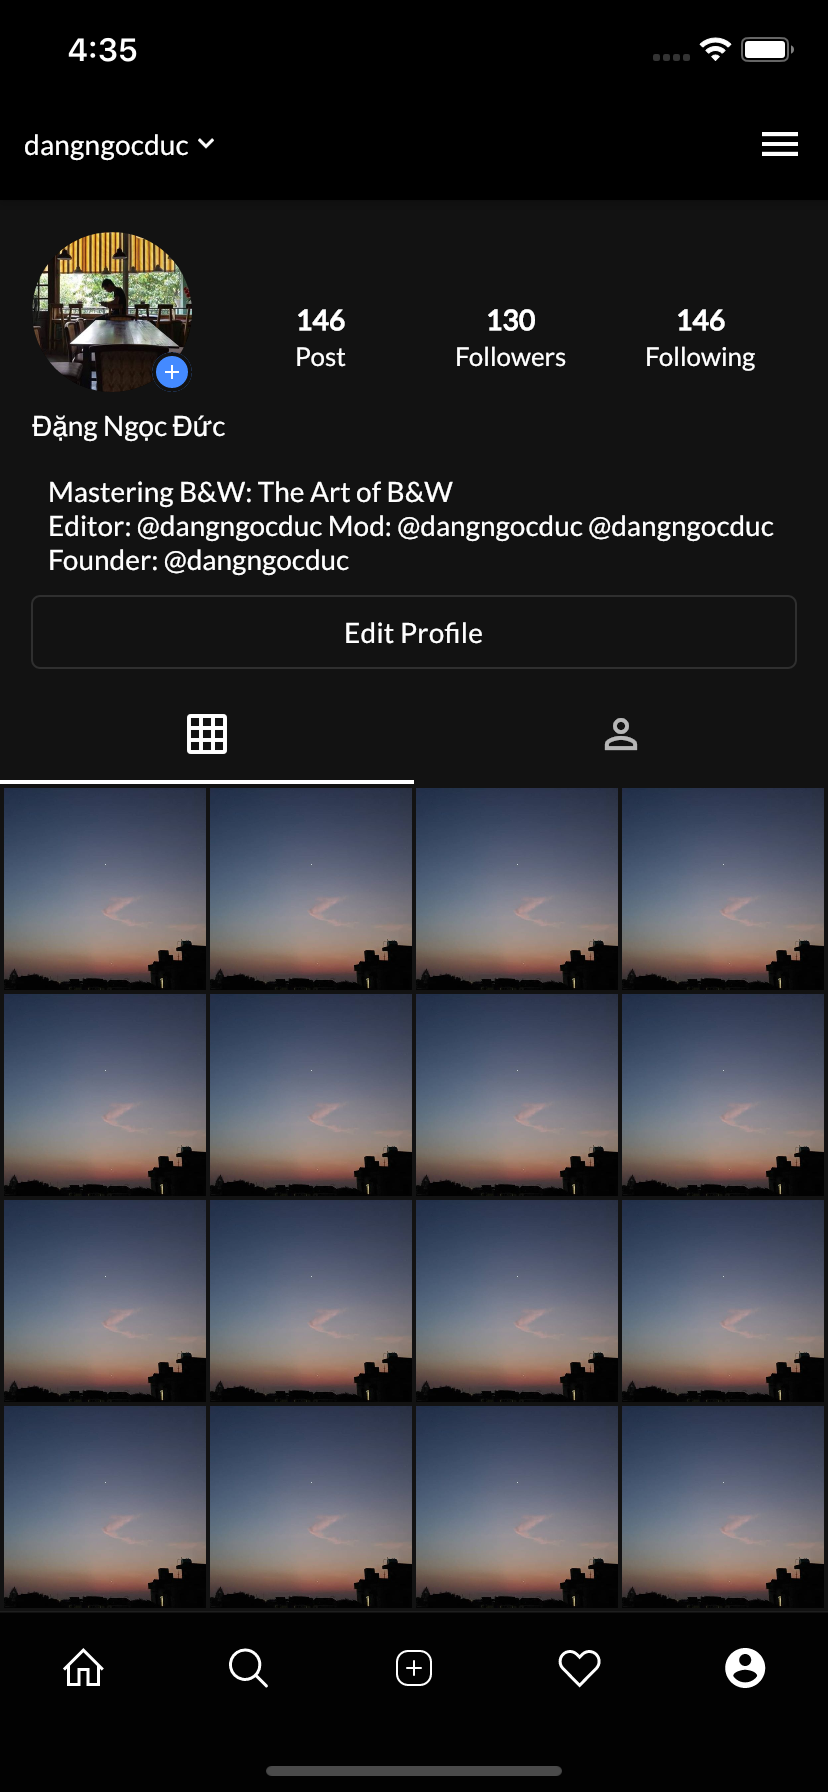
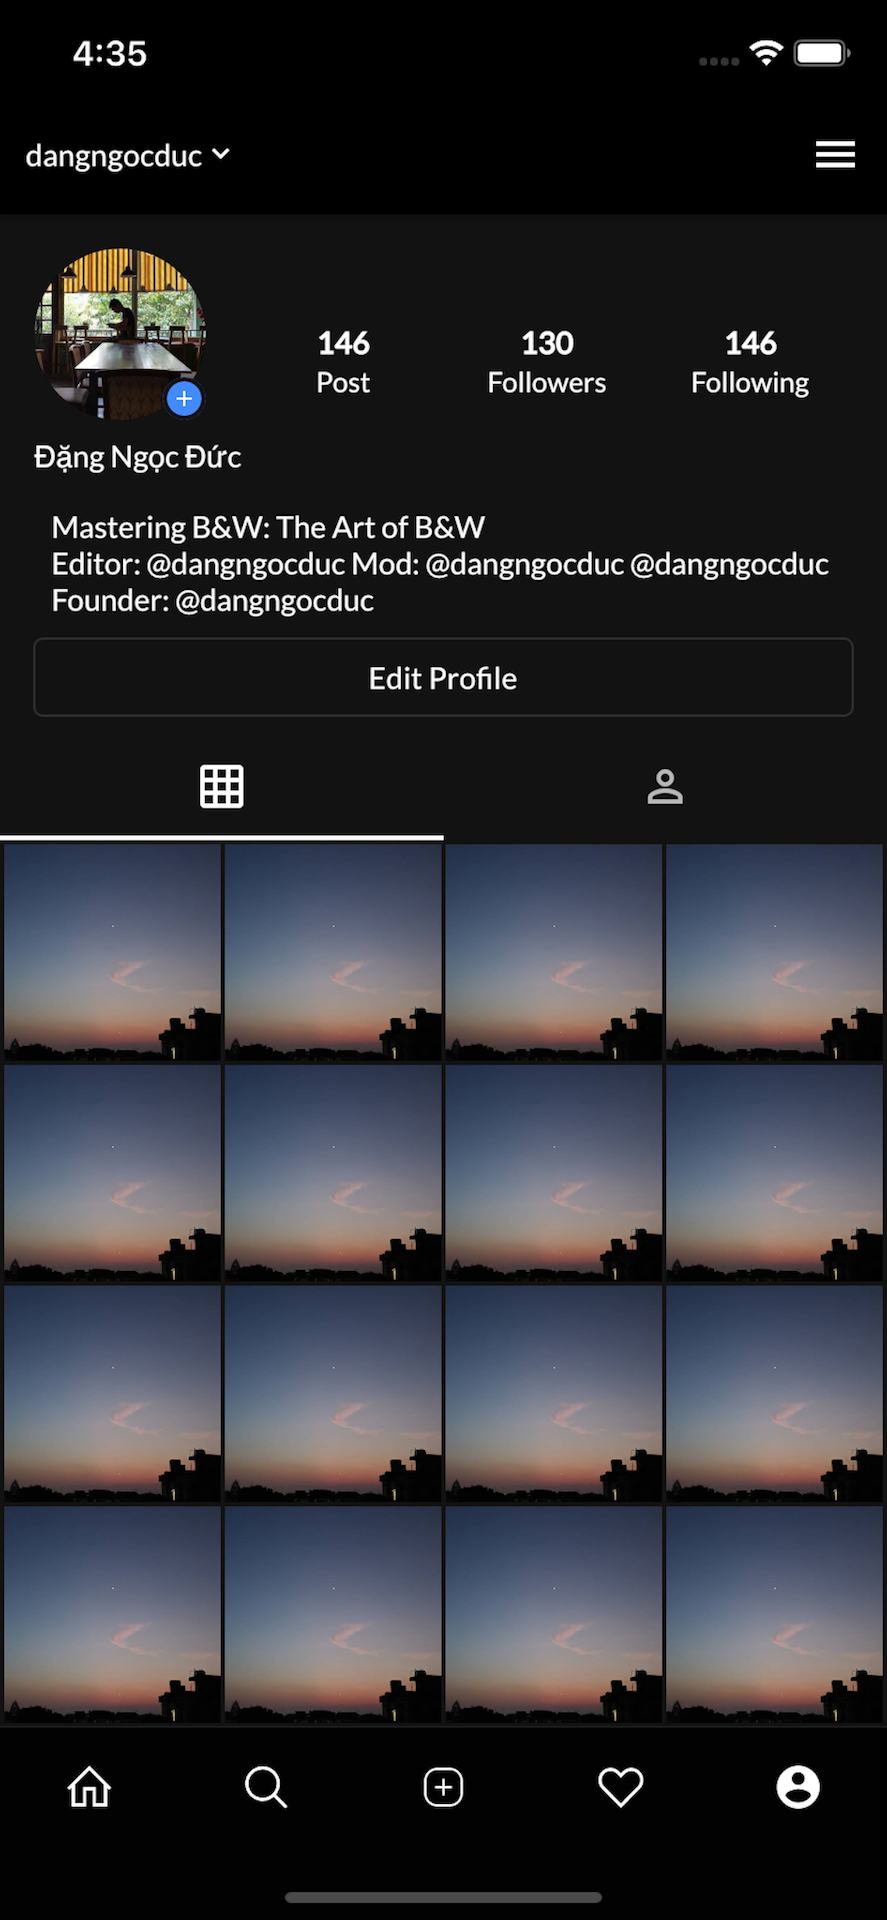
[DEV]

diff --git a/lib/features/search/search_pages.dart b/lib/features/search/search_pages.dart
@@ -1,3 +1,4 @@
+import 'package:flutter/foundation.dart';
 import 'package:flutter/material.dart';
 import 'package:flutter_svg/flutter_svg.dart';
 import 'package:instagramflutter/data/bloc/local_media_bloc.dart';
@@ -51,7 +52,11 @@ class _SearchPagesState extends State<SearchPages> {
                 separatorBuilder: (context, index) => SizedBox(width: 16,),
                 scrollDirection: Axis.horizontal,
                 itemBuilder: (context, index) => ChipWidget(
-                  SvgPicture.asset(
+                  kIsWeb ? Image.network(
+                    categories[index].item1,
+                    color: Theme.of(context).colorScheme.onBackground,
+                    width: 18,
+                  ): SvgPicture.asset(
                     categories[index].item1,
                     color: Theme.of(context).colorScheme.onBackground,
                     width: 18,

diff --git a/lib/features/bottom_nav/bottom_navigation_item.dart b/lib/features/bottom_nav/bottom_navigation_item.dart
@@ -1,3 +1,4 @@
+import 'package:flutter/foundation.dart';
 import 'package:flutter/material.dart';
 import 'package:flutter_svg/flutter_svg.dart';
 import 'dart:developer' as developer;
@@ -27,7 +28,10 @@ class _BottomNavigationItemState extends State<BottomNavigationItem> {
             vertical: 4,
             horizontal: 8
         ),
-        child: SvgPicture.asset(
+        child: kIsWeb ? Image.network(
+          widget.isSelected ? widget.icon.item2 : widget.icon.item1,
+          color: Theme.of(context).colorScheme.onPrimary,
+        ) : SvgPicture.asset(
           widget.isSelected ? widget.icon.item2 : widget.icon.item1,
           color: Theme.of(context).colorScheme.onPrimary,
         ),

diff --git a/lib/features/post/setting_post_page.dart b/lib/features/post/setting_post_page.dart
@@ -15,6 +15,15 @@ class SettingPostPage extends StatefulWidget {
 class _SettingPostPageState extends State<SettingPostPage> {
   static const TAG = 'SettingPostPage';
   @override
+  void didChangeDependencies() {
+    super.didChangeDependencies();
+    ModalRoute.of(context).overlayEntries.forEach((element) {
+
+    });
+  }
+
+
+  @override
   Widget build(BuildContext context) {
     return ChangeNotifierProvider(
         create: (context) => PostCreateViewModel(),

diff --git a/lib/application.dart b/lib/application.dart
@@ -131,7 +131,7 @@ class _ApplicationState extends State<Application> {
               )
             ))
         ),
-        themeMode: ThemeMode.system,
+        themeMode: ThemeMode.dark,
         home: AuthorizationStatePage(),
       ),
     );
